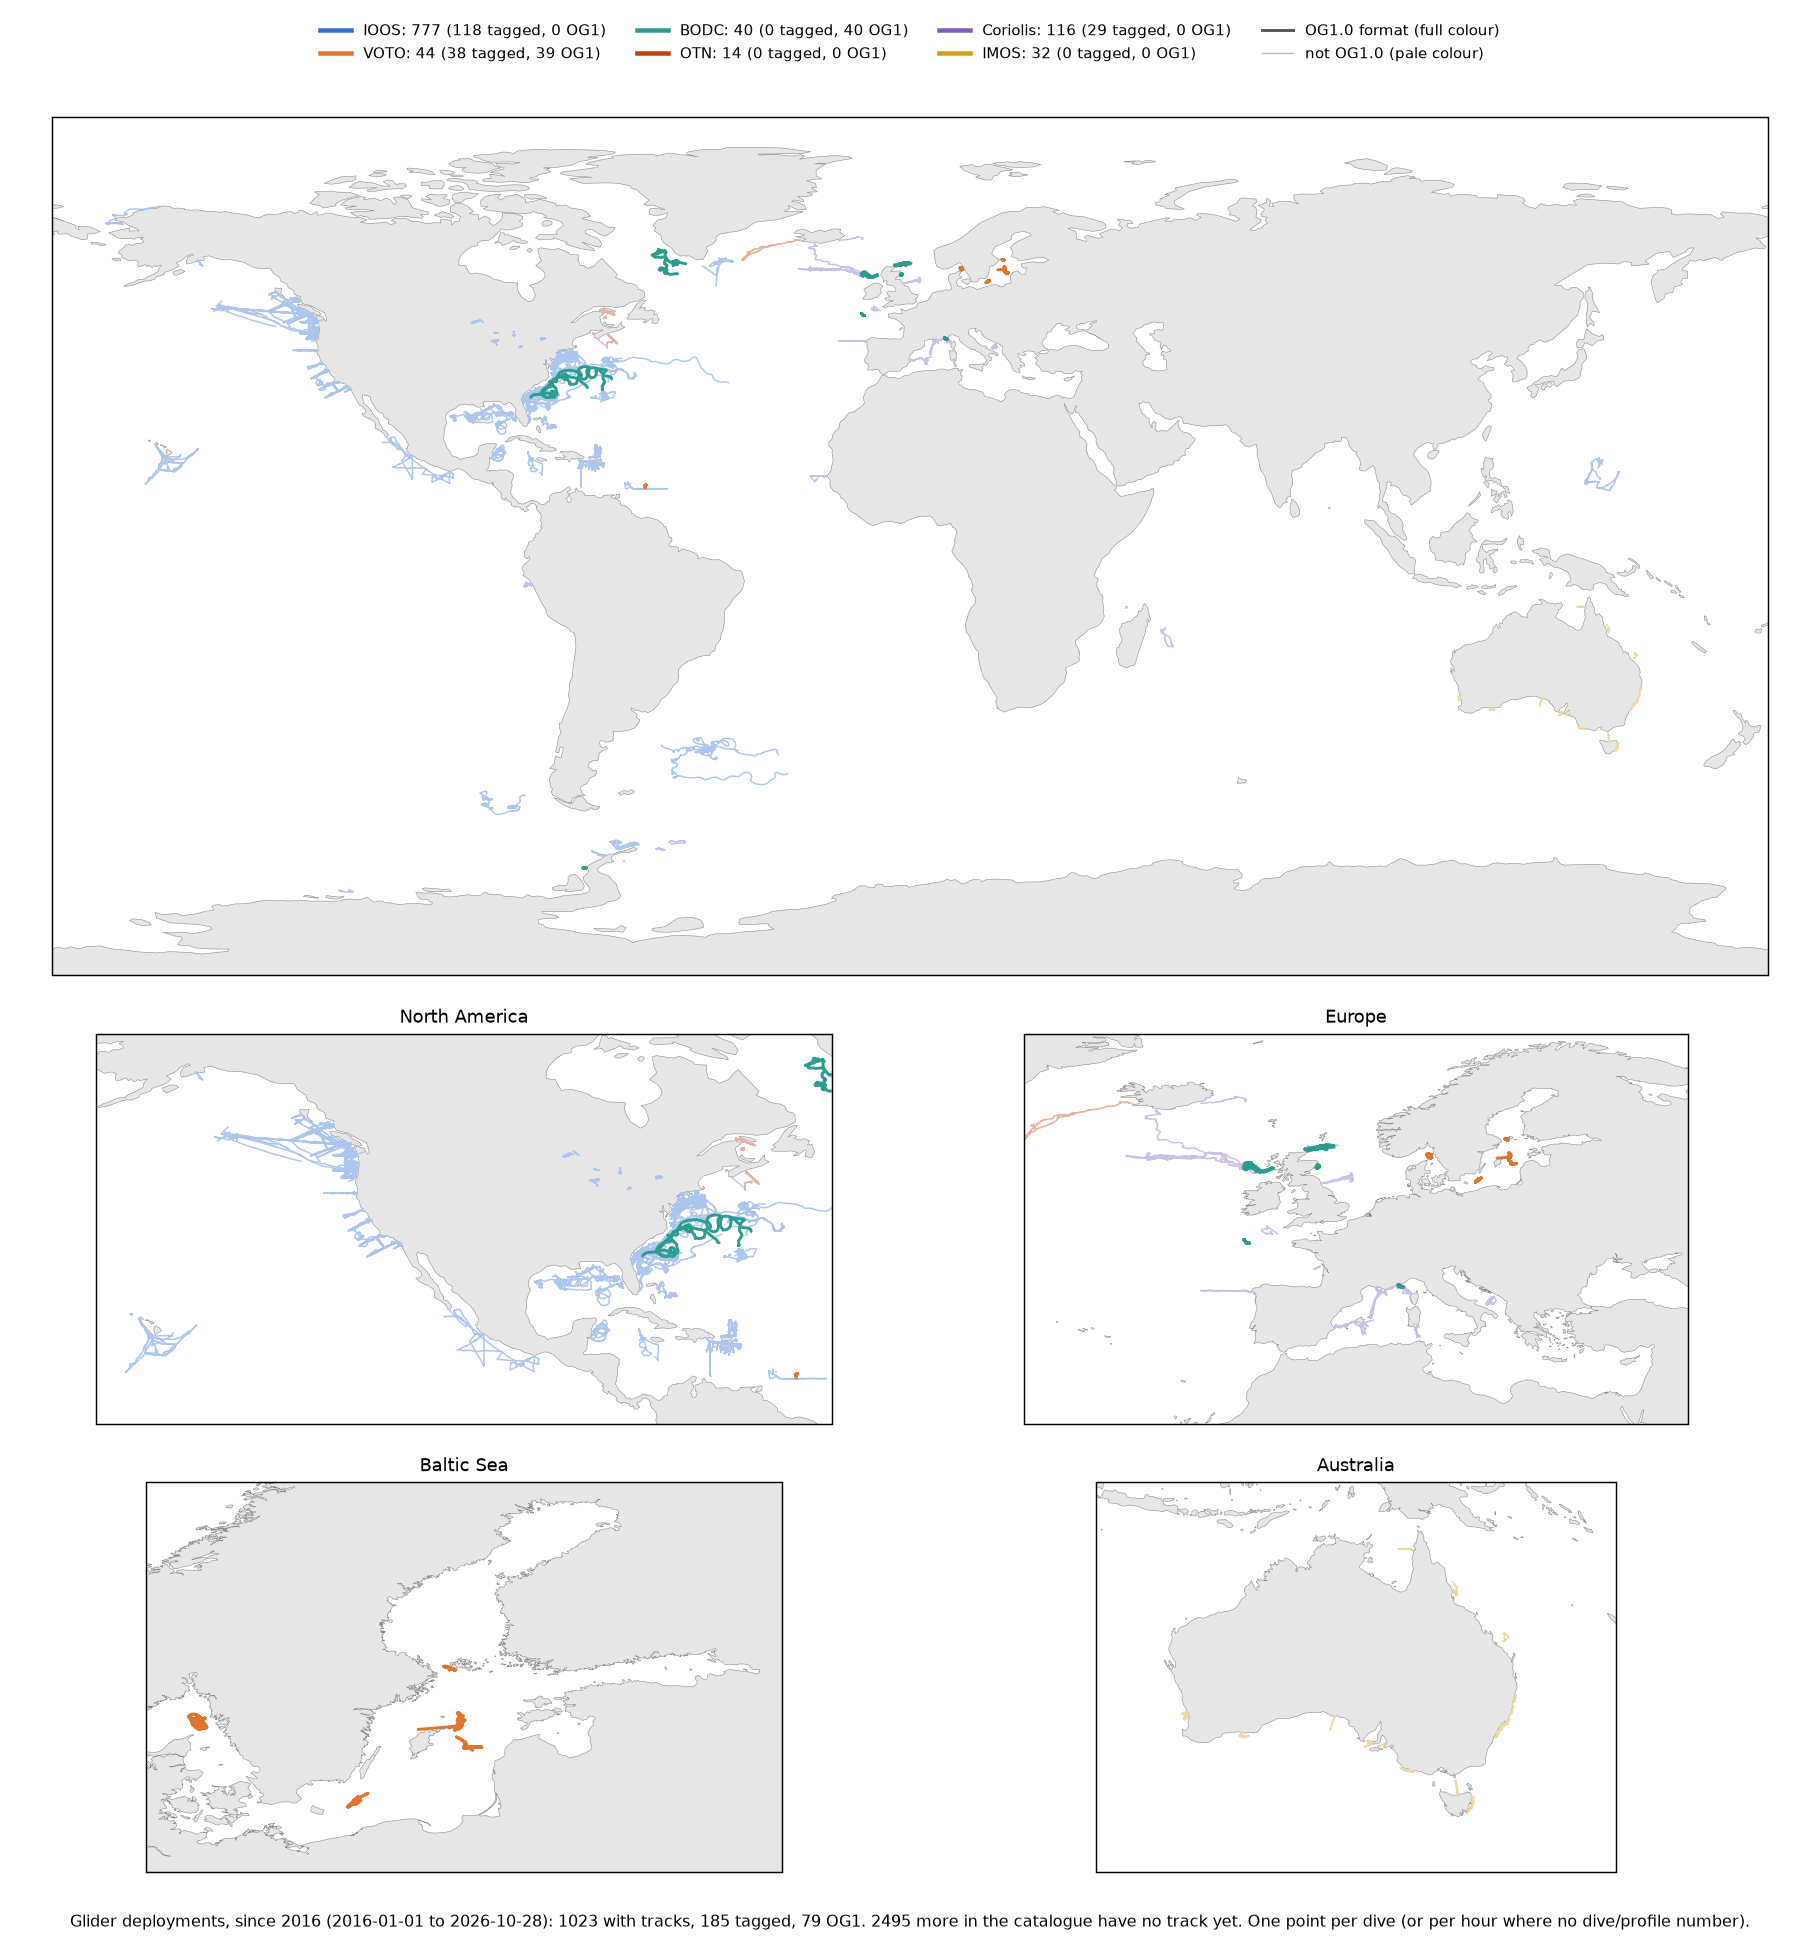
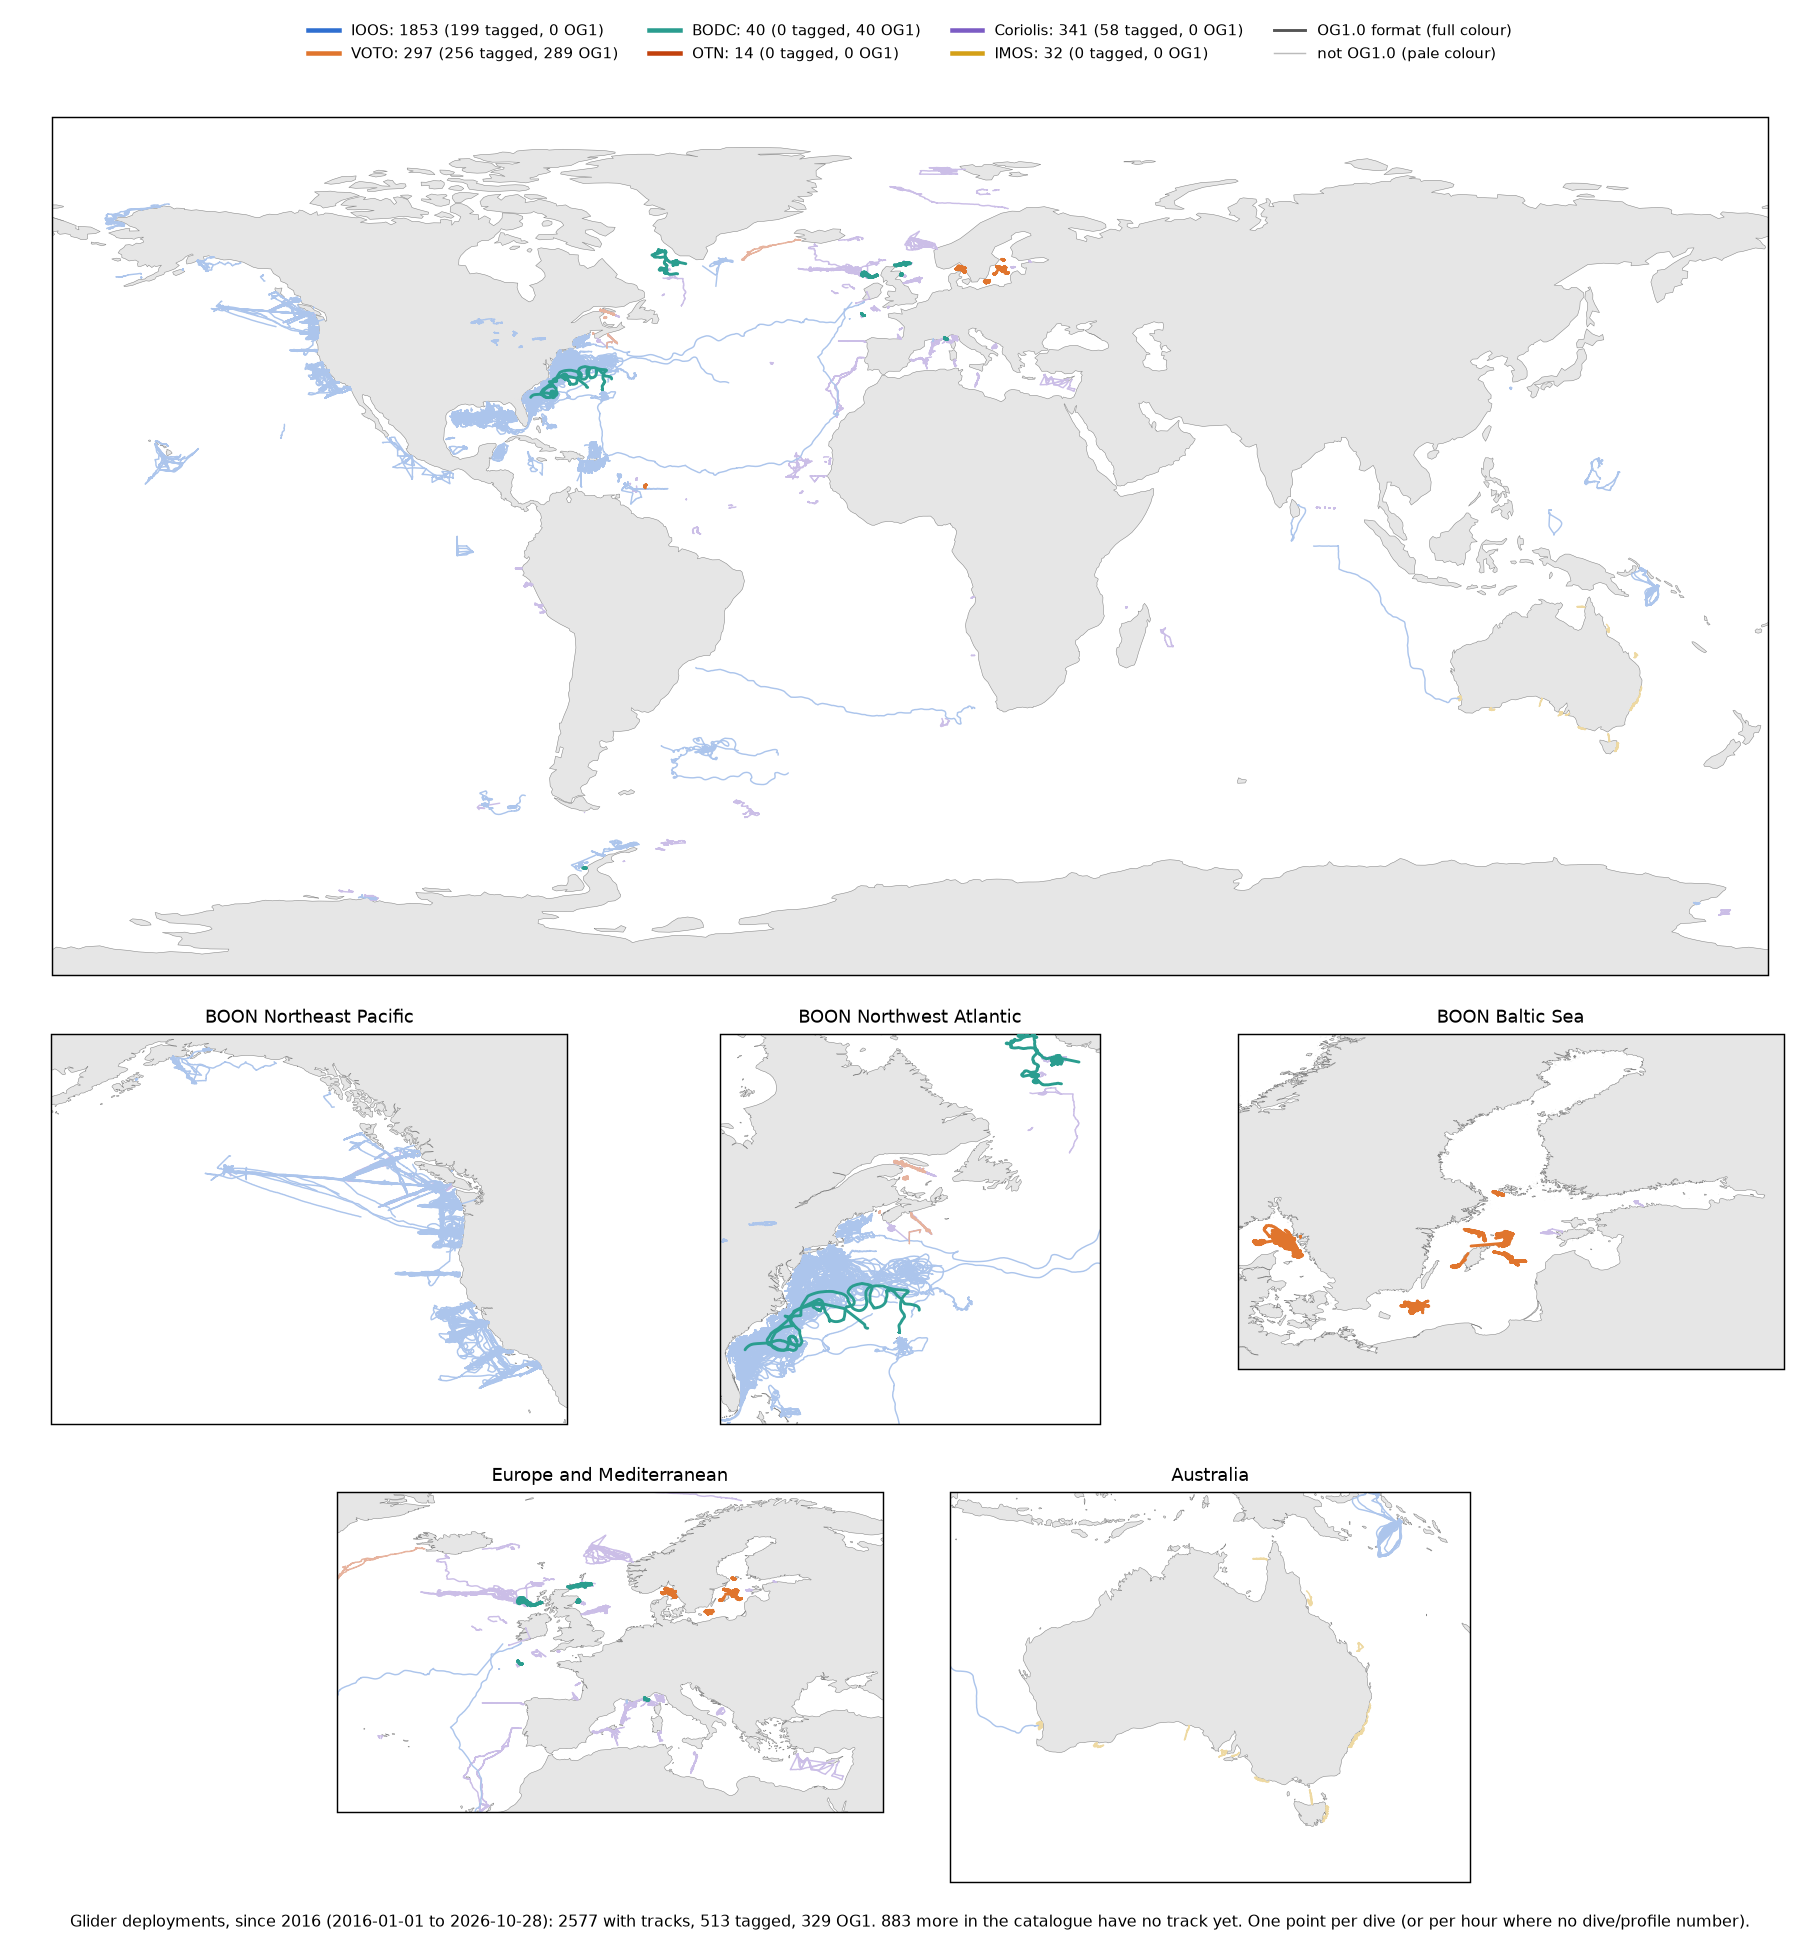
Track maps: insets for the BOON published regions (Northeast Pacific, Northwest Atlantic, Baltic Sea) plus Europe/Mediterranean and Australia

diff --git a/analysis/map_tracks.py b/analysis/map_tracks.py
@@ -24,8 +24,10 @@ from matplotlib.lines import Line2D
 from store import DAC_COLORS, load_deployments, load_tracks
 
 PC = ccrs.PlateCarree()
-REGIONS = {'North America': (-165, -50, 5, 66), 'Europe': (-35, 40, 28, 72),
-           'Baltic Sea': (9, 31, 53, 66.5), 'Australia': (105, 165, -50, -5)}
+# BOON published regions first (Northeast Pacific, Northwest Atlantic, Baltic Sea), then other areas
+REGIONS = {'BOON Northeast Pacific': (-160, -115, 28, 62), 'BOON Northwest Atlantic': (-82, -45, 24, 62),
+           'BOON Baltic Sea': (9, 31, 53, 66.5), 'Europe and Mediterranean': (-35, 40, 28, 72),
+           'Australia': (105, 165, -50, -5)}
 BY = {'tagged': ('tagged', 'OceanGliders tagged', 'not tagged'),
       'og1': ('og1', 'OG1.0 format', 'not OG1.0')}
 
@@ -79,7 +81,9 @@ def render(tr, by, label, n_missing, out):
     fig = plt.figure(figsize=(14, 15))
     draw(fig.add_axes([0.02, 0.50, 0.96, 0.44], projection=PC), lay)
     for i, (name, ext) in enumerate(REGIONS.items()):
-        ax = fig.add_axes([0.03 + (i % 2) * 0.49, 0.27 - (i // 2) * 0.23, 0.45, 0.20], projection=PC)
+        x = 0.02 + (i % 3) * 0.33 if i < 3 else 0.185 + (i - 3) * 0.33  # 3 on top, 2 centred below
+        ax = fig.add_axes([x, 0.27 - (i // 3) * 0.235, 0.30, 0.20], projection=PC)
+        ax.set_anchor('N')
         draw(ax, lay, ext)
         ax.set_title(name, fontsize=10)
 
